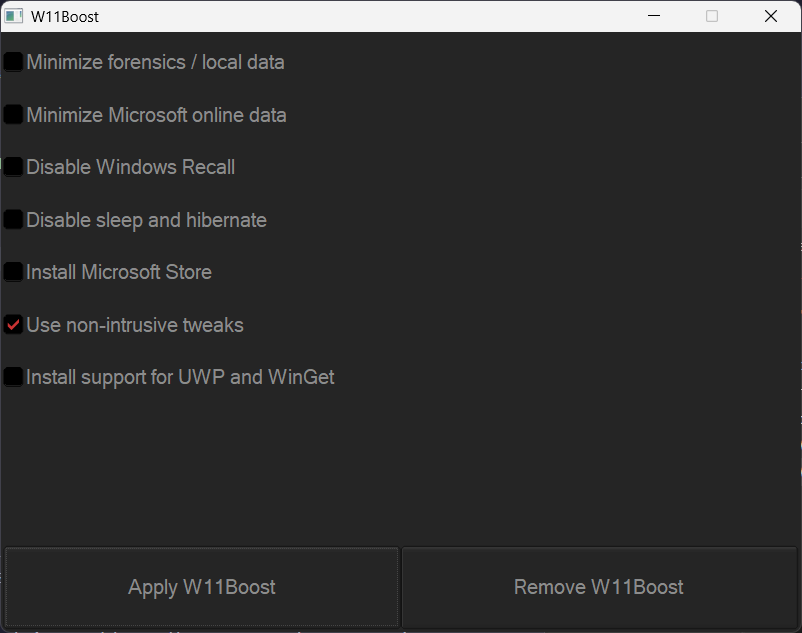
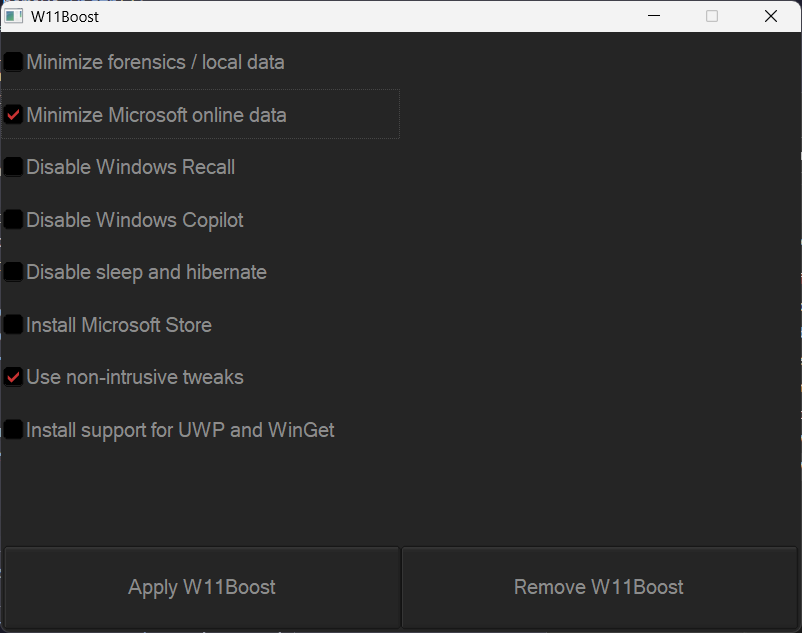
1.6.1

diff --git a/src/gui.rs b/src/gui.rs
@@ -1,12 +1,15 @@
 mod disable_recall;
+mod disable_copilot;
 mod disable_sleep;
 mod install_appx_support;
 mod minimize_forensics;
 mod minimize_online_data_collection;
 mod non_intrusive_tweaks;
+mod remove_w11boost;
 mod reset_windows_store;
 
 use crate::common::{center, restore_from_backup};
+use anyhow::Result;
 use anyhow::anyhow;
 use fltk::{
         app::{self},
@@ -22,7 +25,6 @@ use std::collections::HashMap;
 use std::sync::OnceLock;
 use strum::IntoEnumIterator;
 use strum_macros::EnumIter;
-use anyhow::Result;
 
 const WINDOW_WIDTH: i32 = 640;
 const WINDOW_HEIGHT: i32 = 480;
@@ -54,6 +56,7 @@ enum CheckboxType
         MinimizeForensics,
         MinimizeOnlineData,
         DisableRecall,
+        DisableCopilot,
         DisableSleepAndHibernate,
         InstallMicrosoftStore,
         NonIntrusiveTweaks,
@@ -94,12 +97,21 @@ impl CheckboxType
                                 width: WINDOW_WIDTH / 2,
                                 height: checkbox_height,
                         },
+                        CheckboxType::DisableCopilot => CheckboxConfig {
+                                label: "Disable Windows Copilot",
+                                run_fn: disable_copilot::run,
+                                error_name: "disable_recall",
+                                x: 0,
+                                y: TOP_PADDING + checkbox_height * 3 + 6,
+                                width: WINDOW_WIDTH / 2,
+                                height: checkbox_height,
+                        },
                         CheckboxType::DisableSleepAndHibernate => CheckboxConfig {
                                 label: "Disable sleep and hibernate",
                                 run_fn: disable_sleep::run,
                                 error_name: "disable_sleep",
                                 x: 0,
-                                y: TOP_PADDING + checkbox_height * 3 + 6,
+                                y: TOP_PADDING + checkbox_height * 4 + 8,
                                 width: WINDOW_WIDTH / 2,
                                 height: checkbox_height,
                         },
@@ -108,7 +120,7 @@ impl CheckboxType
                                 run_fn: reset_windows_store::run,
                                 error_name: "reset_windows_store",
                                 x: 0,
-                                y: TOP_PADDING + checkbox_height * 4 + 8,
+                                y: TOP_PADDING + checkbox_height * 5 + 10,
                                 width: WINDOW_WIDTH / 2,
                                 height: checkbox_height,
                         },
@@ -117,7 +129,7 @@ impl CheckboxType
                                 run_fn: non_intrusive_tweaks::run,
                                 error_name: "non_intrusive_tweaks",
                                 x: 0,
-                                y: TOP_PADDING + checkbox_height * 5 + 10,
+                                y: TOP_PADDING + checkbox_height * 6 + 12,
                                 width: WINDOW_WIDTH / 2,
                                 height: checkbox_height,
                         },
@@ -126,7 +138,7 @@ impl CheckboxType
                                 run_fn: install_appx_support::run,
                                 error_name: "install_appx_support",
                                 x: 0,
-                                y: TOP_PADDING + checkbox_height * 6 + 12,
+                                y: TOP_PADDING + checkbox_height * 7 + 14,
                                 width: WINDOW_WIDTH / 2,
                                 height: checkbox_height,
                         },
@@ -325,6 +337,14 @@ impl GuiViewModel
                 if choice == Some(0) {
                         self.set_view(ViewState::Applying);
 
+                        match remove_w11boost::run() {
+                                Ok(_) => {},
+                                Err(e) => {
+                                        self.show_error_screen(format!("remove_w11boost::run failed: {e}"));
+                                        return;
+                                }
+                        }
+
                         match restore_from_backup() {
                                 Ok(_) => {
                                         self.set_view(ViewState::Success);
@@ -354,14 +374,26 @@ impl GuiView
 
                 wind.set_border(true);
 
-                let mut apply = Button::new(0, 0, (WINDOW_WIDTH - 4) / 2, (WINDOW_HEIGHT * 14) / 100, "Apply W11Boost");
+                let mut apply = Button::new(
+                        0,
+                        0,
+                        (WINDOW_WIDTH - 4) / 2,
+                        (WINDOW_HEIGHT * 14) / 100,
+                        "Apply W11Boost",
+                );
 
                 let apply_height = apply.height();
                 apply.set_pos(2, WINDOW_HEIGHT - apply_height - 2);
                 apply.set_label_font(enums::Font::by_name(FONT_PATH));
                 apply.set_label_size(16);
 
-                let mut remove = Button::new(WINDOW_WIDTH / 2, 0,(WINDOW_WIDTH - 4) / 2, (WINDOW_HEIGHT * 14) / 100, "Remove W11Boost");
+                let mut remove = Button::new(
+                        WINDOW_WIDTH / 2,
+                        0,
+                        (WINDOW_WIDTH - 4) / 2,
+                        (WINDOW_HEIGHT * 14) / 100,
+                        "Remove W11Boost",
+                );
                 let remove_width = remove.width();
                 let remove_height = remove.height();
                 remove.set_pos(WINDOW_WIDTH - remove_width - 2, WINDOW_HEIGHT - remove_height - 2);

diff --git a/src/gui/remove_w11boost.rs b/src/gui/remove_w11boost.rs
@@ -1,0 +1,35 @@
+use crate::common::CREATE_NO_WINDOW;
+use anyhow::Result;
+use winsafe::{co::FILE_ATTRIBUTE, SetFileAttributes};
+use std::{fs::{self, File}, os::windows::process::CommandExt, path::Path, process::Command};
+
+pub fn run() -> Result<()>
+{
+        Command::new("fsutil.exe")
+                .args(["behavior", "set", "memoryusage", "1"])
+                .creation_flags(CREATE_NO_WINDOW)
+                .output()?;
+
+        Command::new("fsutil.exe")
+                .args(["behavior", "set", "disablelastaccess", "2"])
+                .creation_flags(CREATE_NO_WINDOW)
+                .output()?;
+
+        Command::new("bcdedit.exe")
+                .args(["/set", "{default}", "recoveryenabled", "yes"])
+                .creation_flags(CREATE_NO_WINDOW)
+                .output()?;
+
+        let file_path = r"C:\Windows\System32\SleepStudy\UserNotPresentSession.etl";
+
+        if Path::new(file_path).exists() {
+                // Removing UserNotPresentSession.etl will fail if it is readonly.
+                SetFileAttributes(file_path, FILE_ATTRIBUTE::NORMAL)?;
+                fs::remove_file(file_path)?;
+        }
+
+        // Re-create UserNotPresentSession.etl with NORMAL file attributes.
+        File::create(file_path)?;
+
+        Ok(())
+}

diff --git a/src/gui/disable_copilot.rs b/src/gui/disable_copilot.rs
@@ -1,0 +1,18 @@
+use winsafe::{HKEY, prelude::advapi_Hkey};
+use anyhow::Result;
+
+use crate::common::*;
+
+pub fn run() -> Result<()>
+{
+        let hklm = HKEY::LOCAL_MACHINE;
+
+        set_dword(
+                &hklm,
+                r"SOFTWARE\Policies\Microsoft\Windows\WindowsCopilot",
+                "TurnOffWindowsCopilot",
+                1,
+        )?;
+
+        Ok(())
+}
